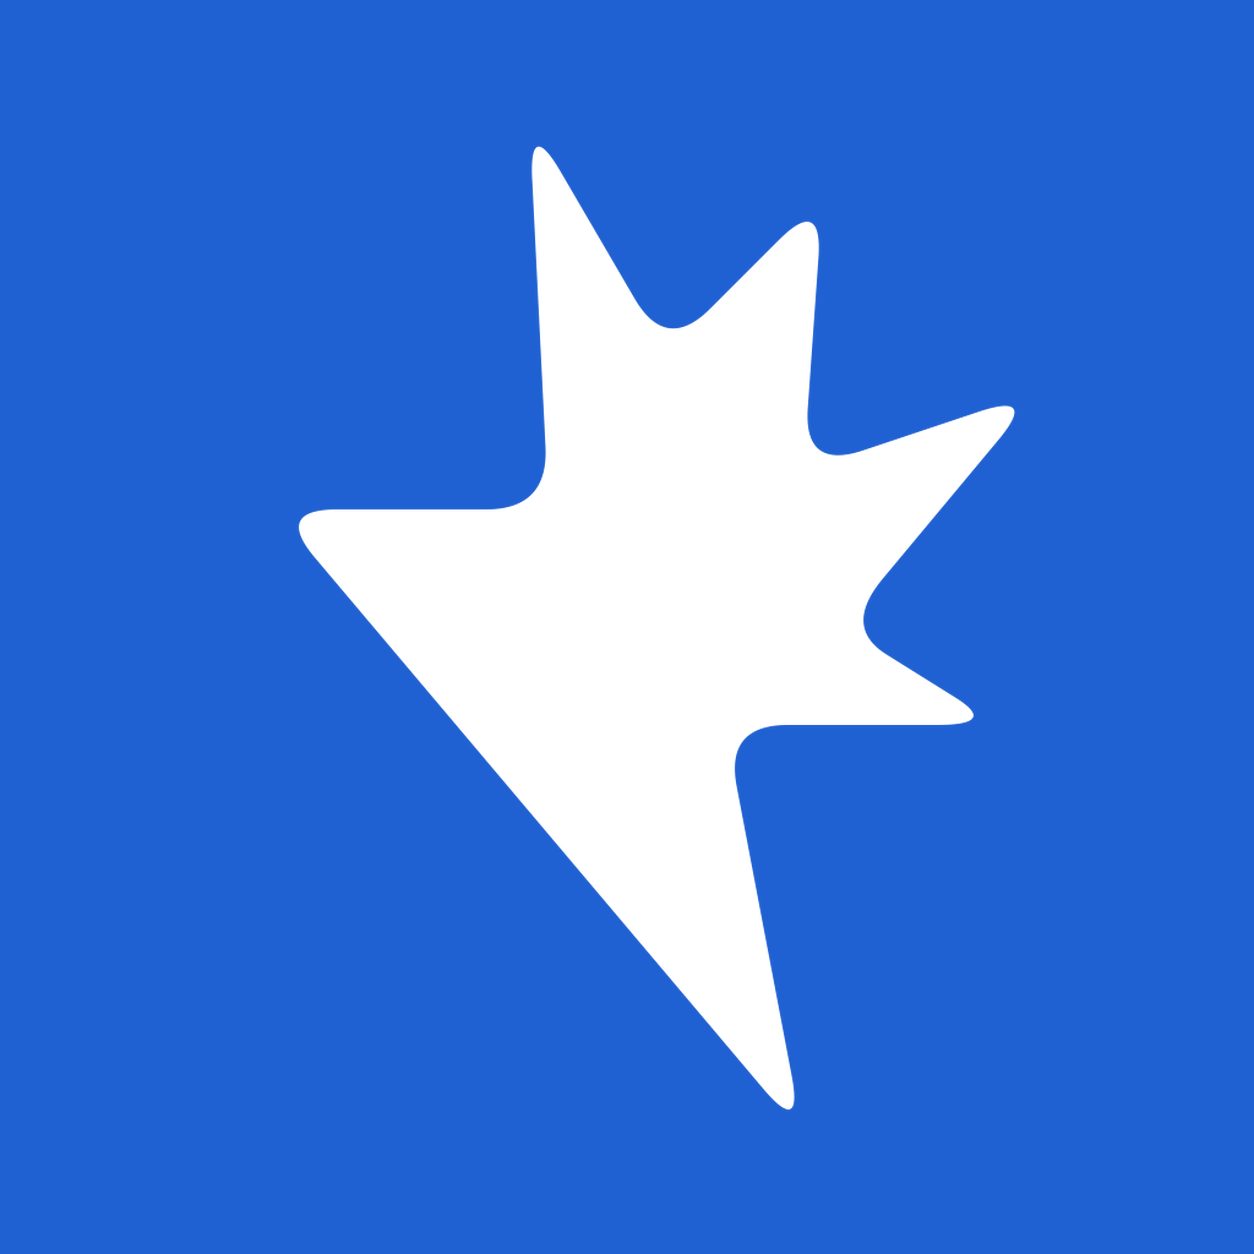
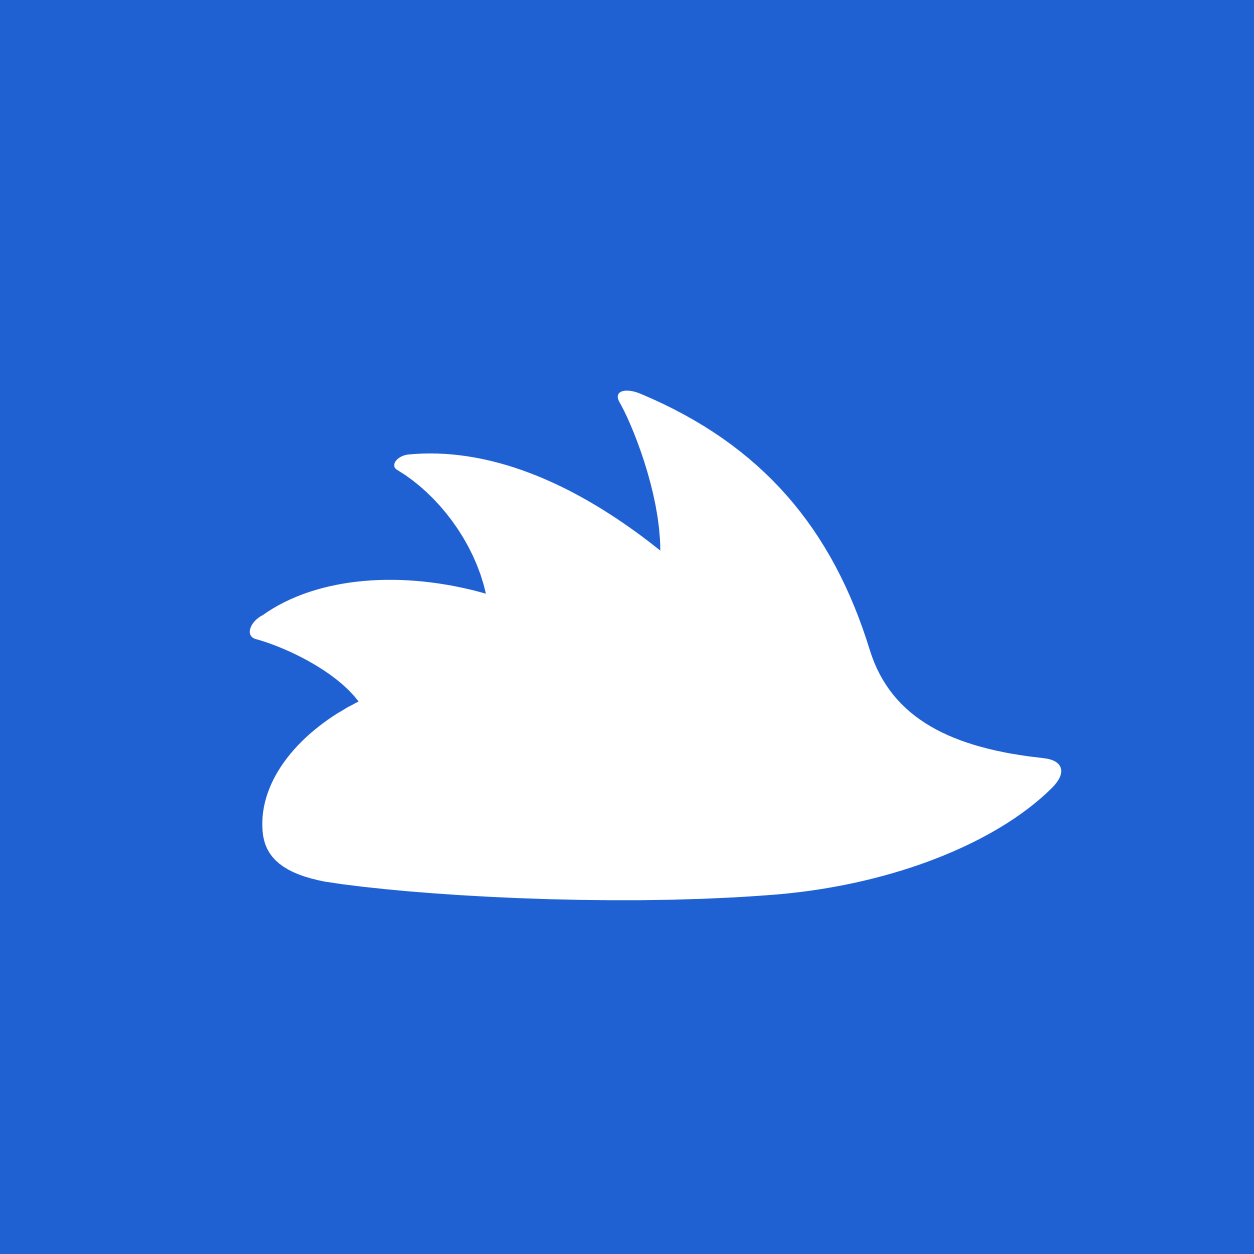
오른쪽 도치 아이콘 전체 교체 (#735)
사유:
- 선택된 파란 바탕·흰색 오른쪽 도치 실루엣을 모든 브랜드 아이콘 표면에 일관되게 적용한다.

변경:
- 공통 SVG 마크를 오른쪽 방향 도치 형태로 교체했다.
- 탭 ICO, Apple, PWA, 모바일, 구조화 데이터용 PNG를 같은 SVG에서 재생성했다.
- 생성 스크립트와 래스터 동기화 회귀 테스트를 추가했다.

검증:
- npm run test:all
- npm run lint
- npm run build

Changed region(s): [[0.1866, 0.1244, 0.8397, 0.9019]]

diff --git a/v2-migration/src/app/brandIcons.test.js b/v2-migration/src/app/brandIcons.test.js
@@ -2,6 +2,7 @@ import { existsSync, readFileSync } from "node:fs";
 import path from "node:path";
 import { describe, expect, it } from "vitest";
 
+import { buildBrandIconAssets } from "../../scripts/generate-brand-icons.mjs";
 import manifest from "./manifest";
 
 const ROOT = process.cwd();
@@ -48,6 +49,15 @@ describe("Growth Opt brand icons", () => {
     expect(appIcon).toBe(publicIcon);
     expect(appIcon).toContain("#1f60d2");
     expect(appIcon).toContain('fill="#fff"');
+    expect(appIcon).toContain('data-brand-shape="dochi-right"');
+  });
+
+  it("keeps every raster and Windows icon generated from the shared SVG", async () => {
+    const generated = await buildBrandIconAssets(ROOT);
+    generated.pngAssets.forEach(({ path: relativePath, buffer }) => {
+      expect(readFileSync(path.join(ROOT, relativePath)).equals(buffer)).toBe(true);
+    });
+    expect(readFileSync(path.join(ROOT, "src/app/favicon.ico")).equals(generated.ico)).toBe(true);
   });
 
   it("uses the favicon vector as the shared in-app brand mark", () => {
